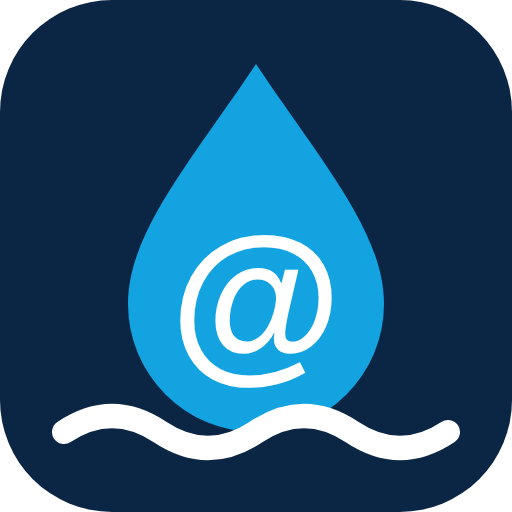
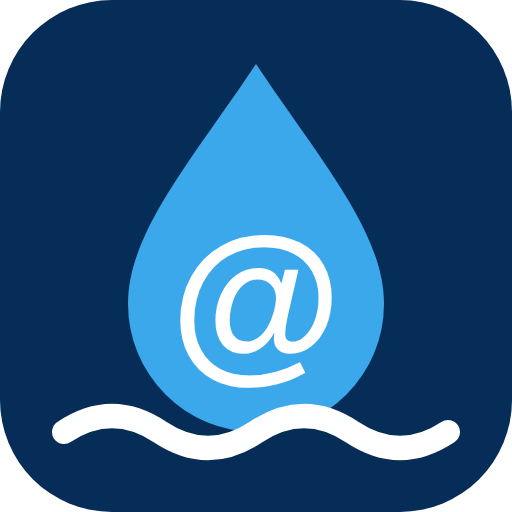
feat(E1): logomarcas institucionais e cores da marca Meninas pelo Clima
- selo da iniciativa no Início, créditos no rodapé, seção Realização
  no Sobre, logomarca no módulo 6 e no README
- créditos de dados e tecnologia (OSM/ODbL, OpenFreeMap, MapLibre)
- azul-escuro #062C58 e azul-claro #3CA8EC; ícones regenerados
- guia de marca com originais preservados

Claude-Session: https://claude.ai/code/session_01NWH3Ew1mA1RhNeNaNcAKpJ

Changed region(s): [[0.25, 0.125, 0.75, 0.8438]]

diff --git a/src/pages/About.tsx b/src/pages/About.tsx
@@ -1,4 +1,6 @@
+import { Logo } from '../components/Institutional';
 import { Card, Disclaimer, PageHeader, SafetyBox } from '../components/ui';
+import { INSTITUTIONAL_LINKS } from '../config/settings';
 import { CONDITION_INFO } from '../domain/labels';
 import { FRESHNESS } from '../config/settings';
 import { STREET_CONDITIONS } from '../domain/types';
@@ -15,6 +17,44 @@ export default function About() {
         <div className="mt-3">
           <Disclaimer />
         </div>
+      </Card>
+
+      <Card>
+        <h2 className="font-bold text-navy">Realização</h2>
+        <div className="mt-3 grid items-center gap-6 sm:grid-cols-2">
+          <div className="flex flex-col items-center text-center">
+            <Logo name="mpc" className="h-40" />
+            <p className="mt-2 text-sm">
+              Projeto de pesquisa e extensão <strong>Meninas pelo Clima</strong>, do Laboratório de Pesquisa em Educação, Natureza e Sociedade
+              (LabPENSo).
+            </p>
+            <a href={INSTITUTIONAL_LINKS.project} target="_blank" rel="noopener noreferrer" className="mt-1 text-sm font-semibold text-navy underline">
+              labpenso.org/meninaspeloclima<span className="sr-only"> (abre em nova aba)</span>
+            </a>
+          </div>
+          <div className="flex flex-col items-center gap-4 text-center">
+            <Logo name="uerj" className="h-32" />
+            <Logo name="uerjFebf" className="h-14" />
+            <p className="text-sm">
+              Universidade do Estado do Rio de Janeiro (UERJ) — Faculdade de Educação da Baixada Fluminense (FEBF), UERJ-Caxias.
+            </p>
+          </div>
+        </div>
+      </Card>
+
+      <Card>
+        <h2 className="font-bold text-navy">Créditos de dados e tecnologia</h2>
+        <ul className="mt-2 list-disc space-y-1 pl-5 text-sm">
+          <li>
+            Mapa base: dados ©{' '}
+            <a href="https://www.openstreetmap.org/copyright" target="_blank" rel="noopener noreferrer" className="underline">
+              colaboradores do OpenStreetMap
+            </a>{' '}
+            (licença ODbL), servidos por OpenFreeMap.
+          </li>
+          <li>Visualização do mapa: MapLibre GL JS (código aberto, licença BSD).</li>
+          <li>O código do Alag@u é aberto e está publicado no GitHub.</li>
+        </ul>
       </Card>
 
       <Card>

diff --git a/src/components/Institutional.tsx b/src/components/Institutional.tsx
@@ -1,0 +1,43 @@
+// E1 — logomarcas institucionais. As imagens são as originais, apenas redimensionadas (docs/marca/README.md).
+const logo = (file: string) => `${import.meta.env.BASE_URL}logos/${file}`;
+
+export const LOGOS = {
+  mpc: { src: logo('meninas-pelo-clima.webp'), w: 494, h: 520, alt: 'Logomarca do projeto Meninas pelo Clima' },
+  uerj: { src: logo('uerj.webp'), w: 256, h: 256, alt: 'Logomarca da UERJ — Universidade do Estado do Rio de Janeiro' },
+  uerjFebf: { src: logo('uerj-febf.webp'), w: 454, h: 144, alt: 'Logomarcas da UERJ e da FEBF — UERJ-Caxias' },
+};
+
+type LogoKey = keyof typeof LOGOS;
+
+export function Logo({ name, className = '', eager = false }: { name: LogoKey; className?: string; eager?: boolean }) {
+  const l = LOGOS[name];
+  return <img src={l.src} width={l.w} height={l.h} alt={l.alt} loading={eager ? 'eager' : 'lazy'} decoding="async" className={`w-auto ${className}`} />;
+}
+
+/** Rodapé: realização (todas as páginas, exceto a tela cheia do mapa). */
+export function FooterCredits() {
+  return (
+    <div className="mt-4 rounded-2xl bg-white p-4 shadow-sm ring-1 ring-black/5">
+      <p className="text-xs font-semibold uppercase tracking-wide text-muted">Realização</p>
+      <div className="mt-2 flex flex-wrap items-center gap-x-6 gap-y-3">
+        <Logo name="mpc" className="h-16" />
+        <Logo name="uerjFebf" className="h-11" />
+      </div>
+      <p className="mt-2 text-xs text-muted">Uma iniciativa do projeto Meninas pelo Clima — LabPENSo/UERJ.</p>
+    </div>
+  );
+}
+
+/** Selo do Início: identificação institucional logo abaixo da marca do Alag@u. */
+export function InitiativeBadge() {
+  return (
+    <div className="mt-4 inline-flex items-center gap-3 rounded-2xl bg-white py-1.5 pl-1.5 pr-4 text-navy shadow">
+      <Logo name="mpc" className="h-12" eager />
+      <p className="text-sm leading-tight">
+        Uma iniciativa do projeto
+        <br />
+        <strong>Meninas pelo Clima</strong> — LabPENSo/UERJ
+      </p>
+    </div>
+  );
+}

diff --git a/e2e/institutional.spec.ts b/e2e/institutional.spec.ts
@@ -1,0 +1,43 @@
+import { expect, test, type Locator } from '@playwright/test';
+import { stubMap } from './helpers';
+
+// E1: logomarcas institucionais nos locais de crédito.
+const MPC = 'Logomarca do projeto Meninas pelo Clima';
+const UERJ = 'Logomarca da UERJ — Universidade do Estado do Rio de Janeiro';
+const FEBF = 'Logomarcas da UERJ e da FEBF — UERJ-Caxias';
+
+async function expectLoaded(img: Locator) {
+  await img.scrollIntoViewIfNeeded();
+  await expect(img).toBeVisible();
+  await expect.poll(() => img.evaluate((el: HTMLImageElement) => el.complete && el.naturalWidth > 0)).toBe(true);
+}
+
+test.beforeEach(async ({ page }) => stubMap(page));
+
+test('Início: selo da iniciativa e rodapé com as logomarcas', async ({ page }) => {
+  await page.goto('/');
+  await expectLoaded(page.locator('section').first().getByRole('img', { name: MPC }));
+  const footer = page.locator('footer');
+  await expectLoaded(footer.getByRole('img', { name: MPC }));
+  await expectLoaded(footer.getByRole('img', { name: FEBF }));
+});
+
+test('Sobre: seção Realização com as três logomarcas e créditos de dados', async ({ page }) => {
+  await page.goto('/sobre');
+  const card = page.locator('section', { has: page.getByRole('heading', { name: 'Realização' }) });
+  for (const name of [MPC, UERJ, FEBF]) await expectLoaded(card.getByRole('img', { name }));
+  await expect(page.getByRole('link', { name: 'colaboradores do OpenStreetMap' })).toBeVisible();
+});
+
+test('Aprenda e Previna: logomarca no módulo 6', async ({ page }) => {
+  await page.goto('/aprenda');
+  await expectLoaded(page.getByRole('main').locator('li', { hasText: 'Módulo 6' }).getByRole('img', { name: MPC }));
+});
+
+test('logomarcas leves (< 40 kB)', async ({ request }) => {
+  for (const f of ['meninas-pelo-clima.webp', 'uerj.webp', 'uerj-febf.webp']) {
+    const res = await request.get(`/logos/${f}`);
+    expect(res.status(), f).toBe(200);
+    expect((await res.body()).length, f).toBeLessThan(40 * 1024);
+  }
+});

diff --git a/src/pages/ReportForm.tsx b/src/pages/ReportForm.tsx
@@ -80,7 +80,7 @@ function Choice<T extends string>({
             key={o}
             className={`flex min-h-14 cursor-pointer items-center gap-3 rounded-2xl border-2 bg-white px-4 py-2 text-base font-medium has-[:focus-visible]:outline has-[:focus-visible]:outline-3 has-[:focus-visible]:outline-sky ${value === o ? 'border-navy bg-sky-50' : 'border-gray-200'}`}
           >
-            <input type="radio" name={name} value={o} checked={value === o} onChange={() => onChange(o)} className="h-5 w-5 accent-[#0B2545]" />
+            <input type="radio" name={name} value={o} checked={value === o} onChange={() => onChange(o)} className="h-5 w-5 accent-[#062C58]" />
             {render(o)}
           </label>
         ))}
@@ -434,7 +434,7 @@ export default function ReportForm() {
                     type="checkbox"
                     checked={draft.hazards.includes(h)}
                     onChange={(e) => set('hazards', e.target.checked ? [...draft.hazards, h] : draft.hazards.filter((x) => x !== h))}
-                    className="h-5 w-5 accent-[#0B2545]"
+                    className="h-5 w-5 accent-[#062C58]"
                   />
                   {HAZARD_LABELS[h]}
                 </label>

diff --git a/src/components/MapView.tsx b/src/components/MapView.tsx
@@ -74,7 +74,7 @@ function trendImage(trend: WaterTrend): ImageData {
   c.width = c.height = s;
   const g = c.getContext('2d')!;
   const m = s / 2;
-  g.fillStyle = '#0B2545';
+  g.fillStyle = '#062C58';
   g.strokeStyle = '#FFFFFF';
   g.lineWidth = 5;
   g.beginPath();
@@ -266,7 +266,7 @@ export default function MapView({
           source: 'reports',
           filter: ['has', 'point_count'],
           layout: { 'text-field': ['get', 'point_count_abbreviated'], 'text-size': 14 },
-          paint: { 'text-color': '#FFFFFF', 'text-halo-color': '#0B2545', 'text-halo-width': 1.5 },
+          paint: { 'text-color': '#FFFFFF', 'text-halo-color': '#062C58', 'text-halo-width': 1.5 },
         });
       }
       map.addLayer({
@@ -374,7 +374,7 @@ export default function MapView({
       return;
     }
     if (!markerRef.current) {
-      markerRef.current = new maplibregl.Marker({ color: '#0B2545', draggable: true })
+      markerRef.current = new maplibregl.Marker({ color: '#062C58', draggable: true })
         .setLngLat([value.lng, value.lat])
         .addTo(map);
       markerRef.current.on('dragend', () => {

diff --git a/src/pages/Learn.tsx b/src/pages/Learn.tsx
@@ -1,6 +1,7 @@
 import { ExternalLink } from 'lucide-react';
 import { Card, PageHeader, SafetyBox, StatusPill } from '../components/ui';
 import { INSTITUTIONAL_LINKS } from '../config/settings';
+import { Logo } from '../components/Institutional';
 
 // Estrutura dos módulos. Os textos completos serão escritos e revisados pela equipe do projeto
 // e cadastrados pelo gerenciador de conteúdo (Fase 6). Não incluímos referências não verificadas.
@@ -61,6 +62,7 @@ export default function Learn() {
           <Card className="h-full">
             <p className="text-xs font-bold uppercase text-[#0E6F99]">Módulo 6</p>
             <h2 className="text-lg font-bold text-navy">Meninas pelo Clima</h2>
+            <Logo name="mpc" className="my-2 h-28" />
             <p className="mt-1 text-sm">
               Projeto de pesquisa e extensão da UERJ, vinculado ao LabPENSo, com estudantes de escolas públicas de Duque de Caxias: educação
               científica, justiça climática, ciência cidadã e protagonismo de meninas e mulheres.

diff --git a/src/pages/Home.tsx b/src/pages/Home.tsx
@@ -1,5 +1,6 @@
 import { Map, Megaphone } from 'lucide-react';
 import { InstallButton } from '../components/AppStatus';
+import { InitiativeBadge } from '../components/Institutional';
 import { Link } from 'react-router-dom';
 import { ReportSummary } from '../components/ReportDetail';
 import { Card, EmptyState, ExampleTag, SafetyBox } from '../components/ui';
@@ -24,6 +25,7 @@ export default function Home() {
         <p className="mt-1 text-2xl font-bold text-sky">Alagou? Avisou!</p>
         <p className="mt-1 text-base text-white/90">Monitoramento Comunitário de Alagamentos</p>
         <p className="mt-1 text-sm text-white/80">Duque de Caxias · RJ</p>
+        <InitiativeBadge />
         <div className="mt-6 grid gap-3 sm:grid-cols-2">
           <Link to="/mapa" className="flex min-h-14 items-center justify-center gap-2 rounded-2xl bg-white text-lg font-bold text-navy shadow">
             <Map aria-hidden="true" /> Ver mapa ao vivo

diff --git a/src/components/Layout.tsx b/src/components/Layout.tsx
@@ -16,6 +16,7 @@ import { useEffect, useRef, useState, type ReactNode } from 'react';
 import { Link, NavLink, useLocation } from 'react-router-dom';
 import { isDemo } from '../data';
 import { OfflineBanner, UpdatePrompt } from './AppStatus';
+import { FooterCredits } from './Institutional';
 import { Disclaimer } from './ui';
 
 export function Brand({ compact = false }: { compact?: boolean }) {
@@ -257,7 +258,7 @@ export default function Layout({ children }: { children: ReactNode }) {
               {children}
               <footer className="mt-10 border-t border-navy/10 pt-4">
                 <Disclaimer />
-                <p className="mt-2 text-xs text-muted">Uma iniciativa do projeto Meninas pelo Clima — LabPENSo/UERJ.</p>
+                <FooterCredits />
               </footer>
             </div>
           )}

diff --git a/src/pages/Data.tsx b/src/pages/Data.tsx
@@ -18,7 +18,7 @@ function Bars({ title, rows }: { title: string; rows: { label: string; value: nu
               </th>
               <td className="py-1">
                 <div className="flex items-center gap-2">
-                  <div className="h-4 rounded" style={{ width: `${(r.value / max) * 100}%`, minWidth: r.value ? 4 : 0, background: r.color ?? '#13A3E0' }} />
+                  <div className="h-4 rounded" style={{ width: `${(r.value / max) * 100}%`, minWidth: r.value ? 4 : 0, background: r.color ?? '#3CA8EC' }} />
                   <span className="font-semibold">{r.value}</span>
                 </div>
               </td>

diff --git a/index.html b/index.html
@@ -3,7 +3,7 @@
   <head>
     <meta charset="UTF-8" />
     <meta name="viewport" content="width=device-width, initial-scale=1.0, viewport-fit=cover" />
-    <meta name="theme-color" content="#0B2545" />
+    <meta name="theme-color" content="#062C58" />
     <meta name="description" content="Alag@u — Alagou? Avisou! Monitoramento Comunitário de Alagamentos em Duque de Caxias. Uma iniciativa do projeto Meninas pelo Clima — LabPENSo/UERJ." />
     <link rel="icon" type="image/svg+xml" href="/alagou-icon.svg" />
     <link rel="apple-touch-icon" href="/apple-touch-icon.png" />

diff --git a/src/index.css b/src/index.css
@@ -6,9 +6,9 @@
 @custom-variant short (@media (max-height: 500px) and (orientation: landscape));
 
 @theme {
-  --color-navy: #0b2545;
-  --color-navy-700: #13315c;
-  --color-sky: #13a3e0;
+  --color-navy: #062c58;
+  --color-navy-700: #0d3a6e;
+  --color-sky: #3ca8ec;
   --color-sky-50: #e8f6fd;
   --color-ok: #2e7d32;
   --color-attention: #f2c200;

diff --git a/vite.config.ts b/vite.config.ts
@@ -27,7 +27,7 @@ export default defineConfig({
         scope: './',
         display: 'standalone',
         orientation: 'any',
-        theme_color: '#0B2545',
+        theme_color: '#062C58',
         background_color: '#F5F8FB',
         categories: ['utilities', 'weather', 'education'],
         icons: [
